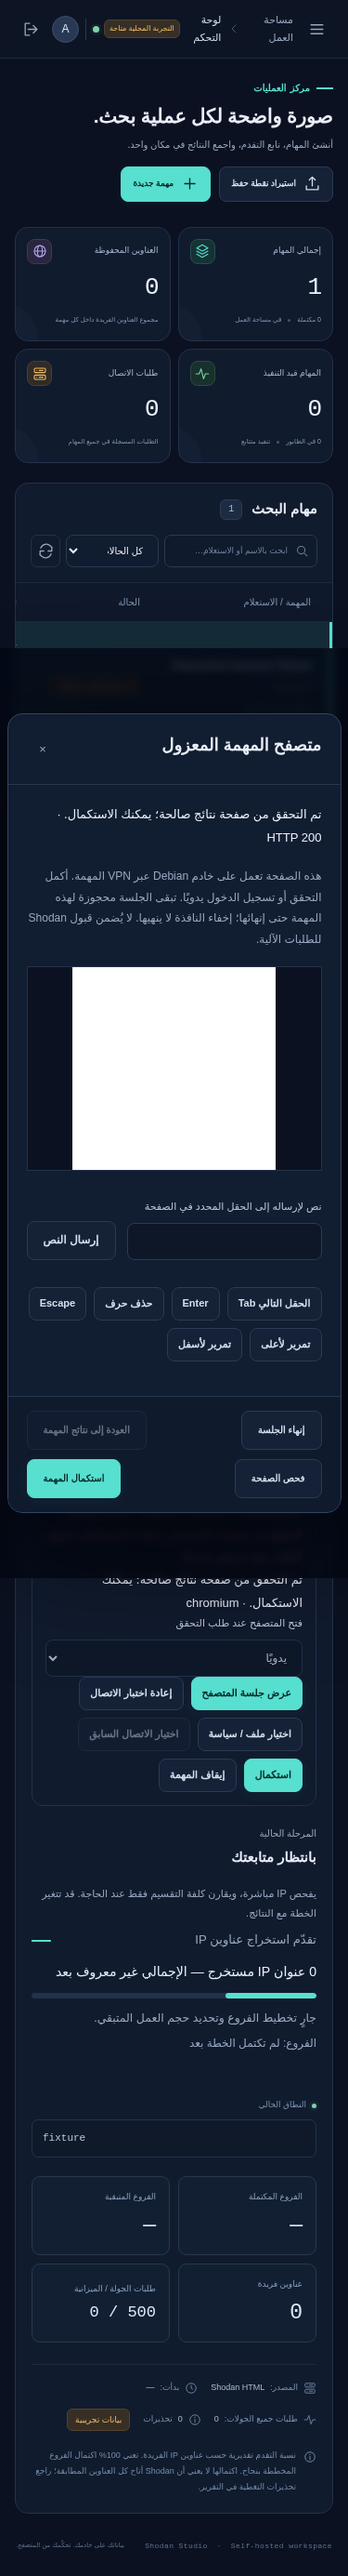
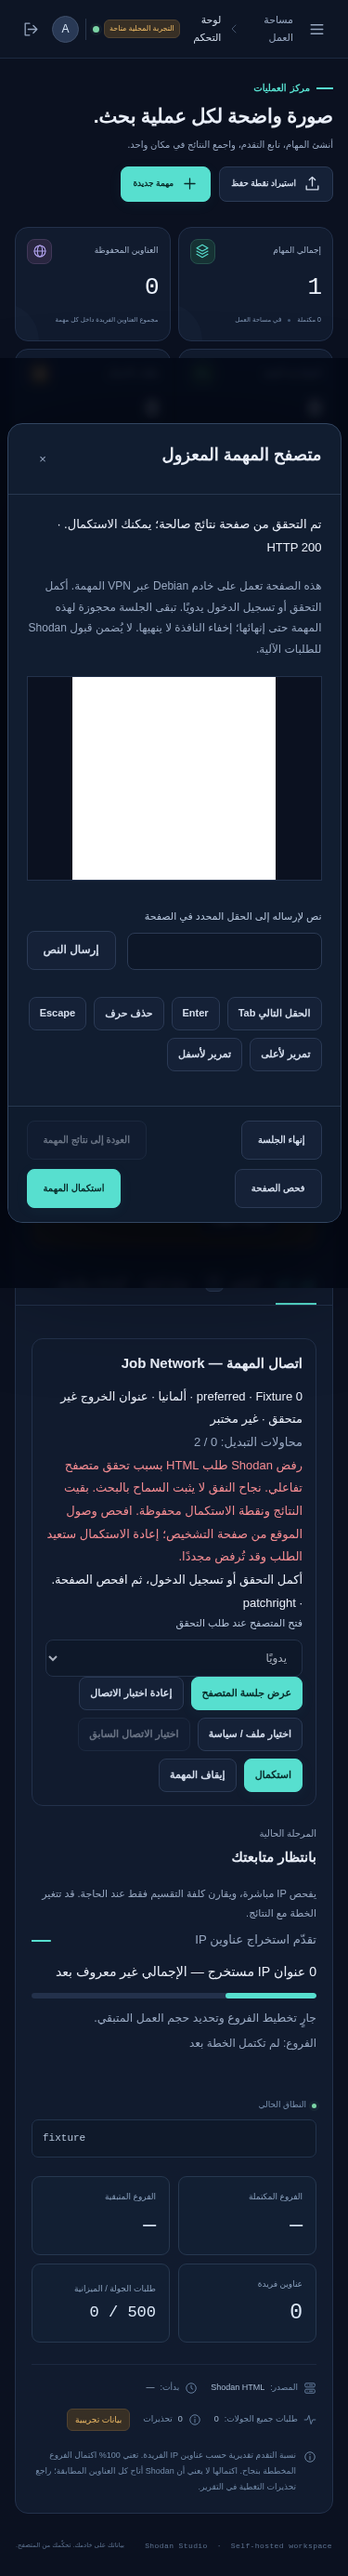
docs(browser): record verified deployment and live acceptance

diff --git a/tests/serve_vpn_fixture.py b/tests/serve_vpn_fixture.py
@@ -37,7 +37,8 @@ def main():
                        'last_partition':{'facet':'port','children':2,'estimated_requests':2}})
             store.update_job(job['id'],status='completed')
         if args.interactive:
-            state={'running':True,'state':'off_task_page','can_return_to_results':True,'http_status':200,'width':1100,'height':760}
+            state={'running':True,'backend':'patchright' if args.automatic_browser else 'chromium',
+                   'state':'off_task_page','can_return_to_results':True,'http_status':200,'width':1100,'height':760}
[1 lines of base64/hex data omitted]
             def browser_rpc(job_id,data):
                 if data['action']=='verify':

diff --git a/VALIDATION.md b/VALIDATION.md
@@ -136,3 +136,16 @@ prove live Shodan acceptance. A deployment receipt records the production check
 separately. The originally selected task became cancelled during implementation;
 the user selected a separate test job and the original task's 566 IPs must remain
 unchanged.
+
+Production deployment: source commit `ea7ca4b5abe1b1379e09725b9b240290835aadeb`,
+version 1.6.0, active application/helper, matching live health, verified backup
+and preserved original job IP sets. The approved separate test job
+`8d336ce1ee780b73e455a135280fdd9a` received HTTP 200 in Patchright, passed exact
+facet verification, extracted 3 IPs in one worker request and was left paused.
+Its browser was closed. The original task remains cancelled with 566 IPs.
+
+Live preflight recorded a missing manually selected tunnel, a test-directory
+ownership error (corrected before retry as the application user), and a transient
+VPN health hold. These held runs sent zero extraction requests. The final run
+passed the unchanged health checks. Receipts retain each observation separately.
+GitHub CI 40902906990 passed on the deployed implementation commit.
